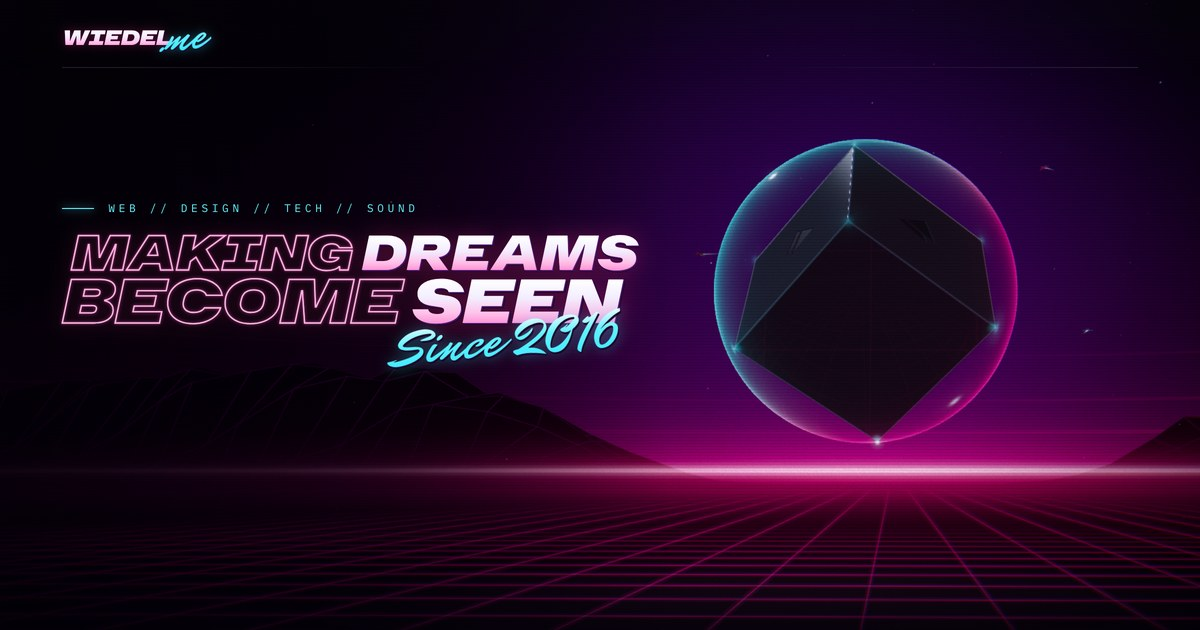
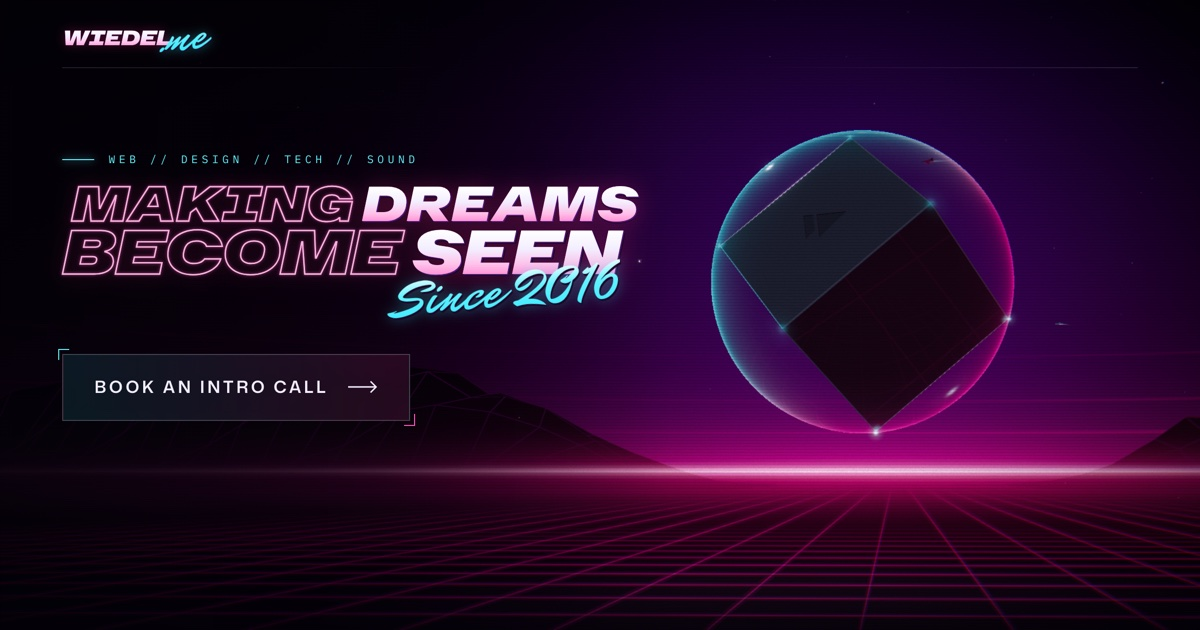
add a call to action to the share image
A social preview check flagged the og:image for having no call to
action. It's now a fresh capture of the home hero with its "Book an
intro call" button, enlarged about 1.4x so the label still reads at
feed size. The alt text mentions the button, and the planned-work note
in CLAUDE.md is done.

diff --git a/CLAUDE.md b/CLAUDE.md
@@ -8,10 +8,6 @@
 - **Make the contact form at the bottom more inviting for user interaction.** The approach is still
   to be found. The form is `components/site/ContactForm.tsx`, inside `components/site/Contact.tsx`;
   its copy is in `lib/contact.ts`.
-- **Add a call to action to the share image (og:image).** A social preview check flagged it: "Image
-  is missing conversion text. No call-to-action was detected. Adding one can make the image more
-  clickable." The image is `app/opengraph-image.jpg` (1200x630, also the X large card): a capture of
-  the home hero without its buttons. Update its alt text, `app/opengraph-image.alt.txt`, to match.
 - **Case studies for the top sites in the portfolio.** Which sites count as "top" is still to be
   chosen. The portfolio is the Work section (`components/site/Work.tsx`), fed by `lib/projects.ts`;
   each card now links straight out to the live site. `Project` already has an unused `description`
